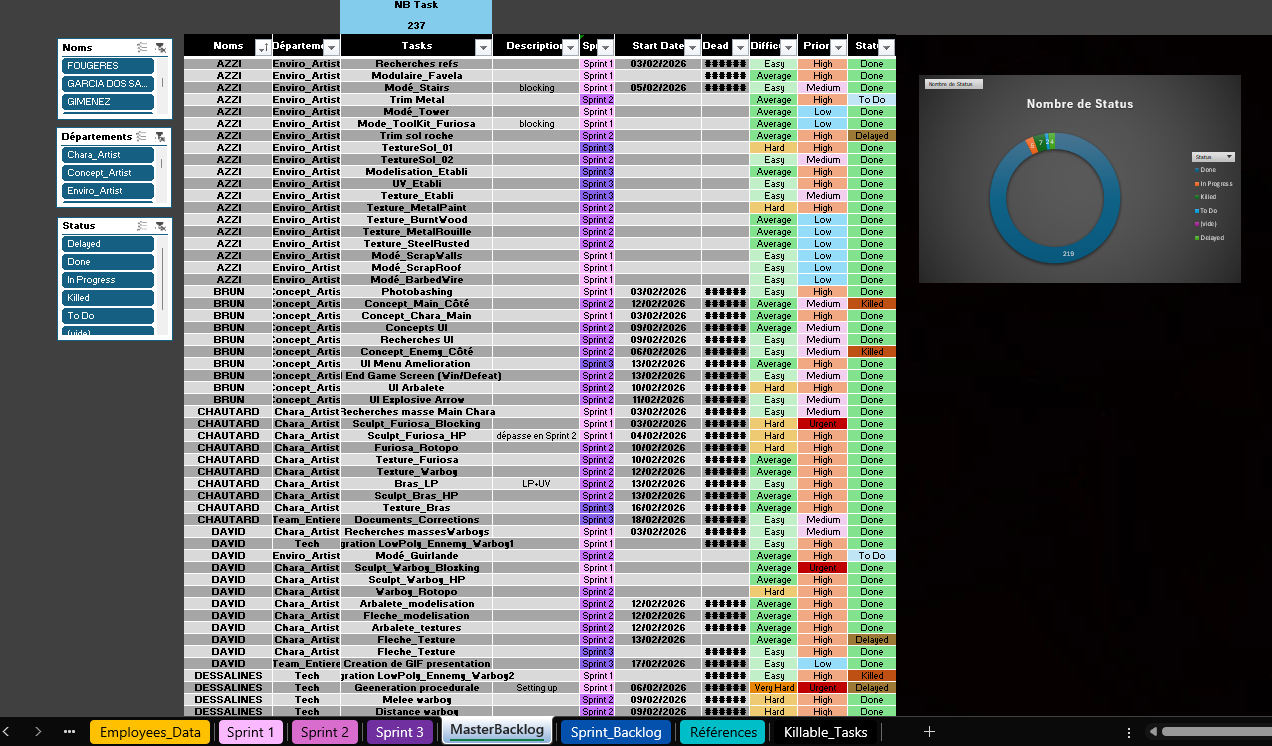
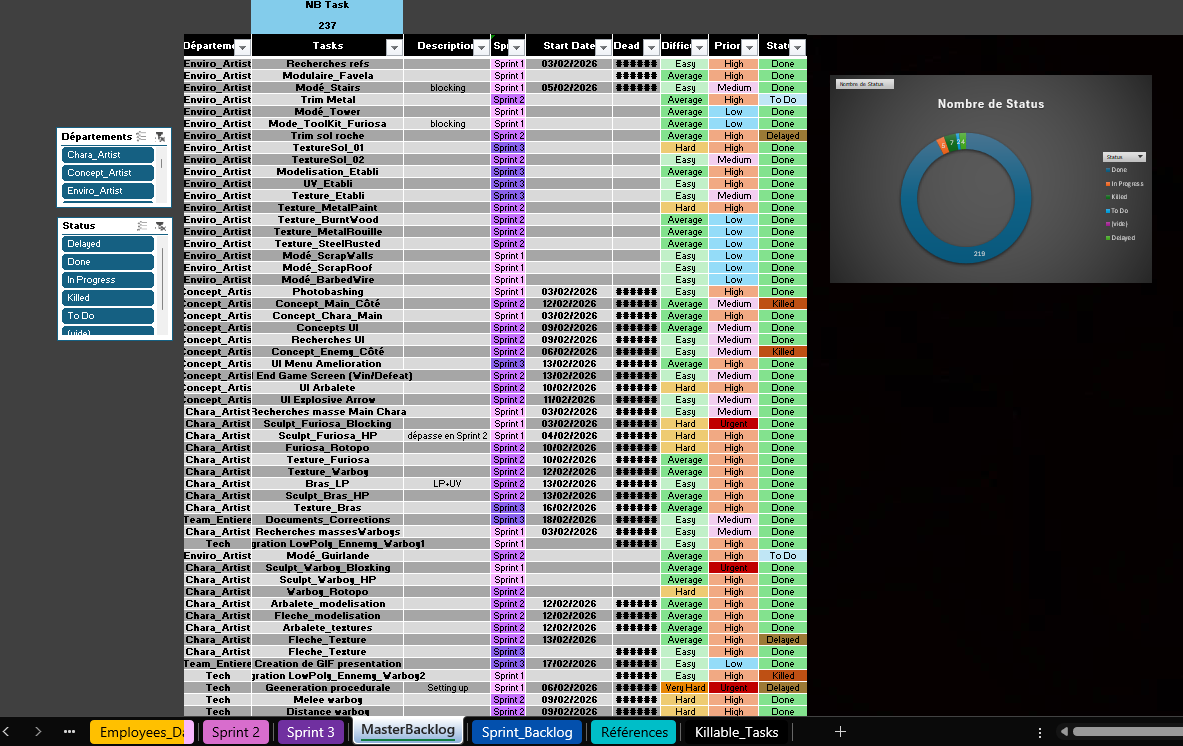
Workshop Rogue-lite : équipes avec liens LinkedIn, backlog sans noms
- Bande « Les équipes » : groupes 3 et 4, rôles tirés des fichiers de production, liens repris des équipes de fin d'année ; Dylan Dessalines affiché sans lien
- Un membre sans LinkedIn s'affiche sans lien ; le numéro de groupe peut être fixé (num)
- Capture du backlog de Mad Max Fury Rogue sans la colonne Noms ni le filtre Noms

Claude-Session: https://claude.ai/code/session_01QtLoCRjyjnrE9a4PUV17cc

diff --git a/js/contenu.js b/js/contenu.js
@@ -167,6 +167,47 @@ const EQUIPES_FDA = [
         M("Théo David","https://www.linkedin.com/in/th%C3%A9o-david-94080a3b6/","Technical Art") ] }
 ];
 
+/* Équipes du Workshop Rogue-lite (février 2026) : rôles tirés des fichiers de production, liens repris des équipes de fin d'année.
+   Un lien vide = pas de LinkedIn (le nom s'affiche sans lien). num = numéro du groupe à l'école. */
+const EQUIPES_ROGUE = [
+  { num:3, nom:"Vampire Hunter E-Cycle", genre:"rogue-lite gothique", genreEn:"gothic rogue-lite",
+    design:[
+        M("Thibault Merle","https://www.linkedin.com/in/thibault-merle-946187311/","Producer"),
+        M("Guillaume Soyez-Martin","https://www.linkedin.com/in/guillaume-soyez-martin-71a863253/","Référent Game Design · Narrative Design","Game Design Lead · Narrative Design"),
+        M("Tom Rossignol","https://www.linkedin.com/in/tom-rossignol-63148a3b8/","System Design"),
+        M("Kylian Chapon","https://www.linkedin.com/in/kylian-chapon-903924251/","Technical Design"),
+        M("Lylian Armant","https://www.linkedin.com/in/lylian-armant/","Level Design"),
+        M("Baptiste Feron","https://www.linkedin.com/in/baptiste-feron-51232b264/","Narrative Design") ],
+    art:[
+        M("Tess Bornard","https://www.linkedin.com/in/tess-bornard-1251bb3b3/","Référent Game Art · Environment Art","Game Art Lead · Environment Art"),
+        M("Allan Goniak","https://www.linkedin.com/in/allan-goniak-267044307/","Environment Art"),
+        M("Essoham Talle","https://www.linkedin.com/in/essoham-talle-290128360/","Environment Art"),
+        M("Manon Lebert","https://www.linkedin.com/in/manon-lebert-4a0602385/","Level Art"),
+        M("Bartholomé Girelli","https://www.linkedin.com/in/bartholome-girelli-071076333/","Technical Art"),
+        M("Naëlle Bigouraux","https://www.linkedin.com/in/na%C3%ABlle-bigouraux-4237363a3/","Character Art"),
+        M("Sarah Ounali","https://www.linkedin.com/in/sarah-ounali-6a1a47271/","Concept Art"),
+        M("Hugo Ballet","https://www.linkedin.com/in/hugo-ballet-038899370/","Concept Art"),
+        M("Augeul Meunier","","Concept Art") ] },
+  { num:4, nom:"Mad Max Fury Rogue", genre:"rogue-lite post-apocalyptique", genreEn:"post-apocalyptic rogue-lite",
+    design:[
+        M("Thibault Merle","https://www.linkedin.com/in/thibault-merle-946187311/","Producer"),
+        M("Malo Fougères","https://www.linkedin.com/in/malo-foug%C3%A8res-65476938b/","Référent Game Design · System Design","Game Design Lead · System Design"),
+        M("Dylan Dessalines","","Technical Design"),
+        M("Tao Rimet","https://www.linkedin.com/in/tao-rimet-256a21330/","Level Design"),
+        M("Matthias Gimenez","https://www.linkedin.com/in/matthias-gimenez-583615375/","Level Design"),
+        M("Flavie Hugonnard-Cotton","https://www.linkedin.com/in/flavie-hugonnard-cotton-b57bb6430/","Narrative Design") ],
+    art:[
+        M("Anaïs Lacoste","https://www.linkedin.com/in/ana%C3%AFs-lacoste-891315225/","Référent Game Art · Technical Art","Game Art Lead · Technical Art"),
+        M("Chloé Stagnitto","https://www.linkedin.com/in/chlo%C3%A9-stagnitto-0aa837345/","Environment Art"),
+        M("Vincent Sanchez","https://www.linkedin.com/in/vincent-sanchez-50844b375/","Environment Art"),
+        M("Lou Azzi","https://www.linkedin.com/in/lou-azzi-6a3076333/","Environment Art"),
+        M("Thomas Vauché","https://www.linkedin.com/in/thomas-vauch%C3%A9-8181a3333/","Level Art"),
+        M("Camille Chautard","https://www.linkedin.com/in/camille-chautard-81225a268/","Character Art"),
+        M("Théo David","https://www.linkedin.com/in/th%C3%A9o-david-94080a3b6/","Character Art"),
+        M("Pedro Garcia dos Santos","https://www.linkedin.com/in/pedro-garcia-dos-santos-776582268/","Concept Art"),
+        M("Valentin Brun","https://www.linkedin.com/in/valentin-brun-495426393/","Concept Art") ] }
+];
+
 const PROJECTS_FR = {
   pro: [
     P({ title:"Projets de fin d'année : quatre jeux en parallèle – Mai-juin 2026", large:true, nocover:true,   // nocover:true = pas de grande image en tête de la page de détails
@@ -303,6 +344,12 @@ const PROJECTS_FR = {
             LIGNE([
               T("Ce workshop m'a appris à **décider des coupes avant d'en avoir besoin**. Une liste sacrifiable préparée à l'avance évite d'improviser pendant le rush : quand le temps manque, on sait déjà ce qu'on laisse de côté."),
               T("J'avais écrit les mêmes objectifs de sprint pour les deux équipes. Avec le recul, chacune aurait gagné à avoir **ses propres objectifs**, tirés de son jeu et de son avancement : elles n'avaient pas le même volume de travail, 336 tâches d'un côté et 237 de l'autre.")
+            ])
+          ]),
+          BANDE("VIII","Les équipes",[
+            LIGNE([
+              T("Ces deux jeux sont avant tout le travail de leurs équipes."),
+              EQUIPES(EQUIPES_ROGUE)
             ])
           ])
         ] }),
@@ -709,6 +756,12 @@ const PROJECTS_EN = {
             LIGNE([
               T("This workshop taught me to **decide on cuts before I need them**. An expendable list prepared in advance avoids improvising during the crunch: when time runs short, you already know what to leave aside."),
               T("I had written the same sprint goals for both teams. Looking back, each would have benefited from **its own goals**, drawn from its game and its progress: they did not have the same workload, 336 tasks on one side and 237 on the other.")
+            ])
+          ]),
+          BANDE("VIII","The teams",[
+            LIGNE([
+              T("These two games are first and foremost the work of their teams."),
+              EQUIPES(EQUIPES_ROGUE)
             ])
           ])
         ] }),

diff --git a/js/app.js b/js/app.js
@@ -243,7 +243,9 @@ function bandNum(n){
 /* Carrousel des équipes : une diapositive par groupe, deux colonnes (Game Design / Game Art) */
 function teamsCarousel(groupes){
   const person = m => { const role = lang==="en" && m.roleEn ? m.roleEn : m.role;
-    return `<li class="${m.role==="Producer"?"me":""}"><a href="${esc(m.url)}" target="_blank" rel="noopener" aria-label="${esc(m.nom)} – LinkedIn (${t("newTab")})">${LINKEDIN_ICON}<span class="tm-n">${esc(m.nom)}</span></a><span class="tm-r">${esc(role)}</span></li>`; };
+    const who = m.url ? `<a href="${esc(m.url)}" target="_blank" rel="noopener" aria-label="${esc(m.nom)} – LinkedIn (${t("newTab")})">${LINKEDIN_ICON}<span class="tm-n">${esc(m.nom)}</span></a>`
+                      : `<span class="tm-a"><i aria-hidden="true"></i><span class="tm-n">${esc(m.nom)}</span></span>`;   /* pas de LinkedIn : nom sans lien */
+    return `<li class="${m.role==="Producer"?"me":""}">${who}<span class="tm-r">${esc(role)}</span></li>`; };
   /* Tri alphabétique par nom de famille (tout ce qui suit le prénom) ; le producer reste en tête */
   const surname = m => m.nom.split(" ").slice(1).join(" ") || m.nom;
   const sorted = list => [...list].sort((x,y)=> (y.role==="Producer")-(x.role==="Producer") || surname(x).localeCompare(surname(y),"fr",{sensitivity:"base"}) || x.nom.localeCompare(y.nom,"fr"));
@@ -251,7 +253,7 @@ function teamsCarousel(groupes){
   const prod = list => list.filter(m=>m.role==="Producer"), team = list => list.filter(m=>m.role!=="Producer");
   const col = (titre, list) => `<div class="tm-col"><h4>${titre}<small>${list.length}</small></h4><ul>${sorted(list).map(person).join("")}</ul></div>`;
   return `<details class="fold"><summary class="btn ghost"><span class="f-show">${q("Voir les membres des équipes","See the team members")}</span><span class="f-hide">${q("Masquer les membres des équipes","Hide the team members")}</span></summary><figure class="car teams" aria-roledescription="carrousel"><div class="car-track">${groupes.map((g,i)=>`<section class="car-s team" aria-label="${esc(g.nom)}">
-      <header><span class="tm-k">${t("group")} ${i+1}</span><h3>${esc(g.nom)}</h3><p>${esc(lang==="en"?g.genreEn:g.genre)} · ${team(g.design).length+g.art.length} ${t("members")}</p></header>
+      <header><span class="tm-k">${t("group")} ${g.num||i+1}</span><h3>${esc(g.nom)}</h3><p>${esc(lang==="en"?g.genreEn:g.genre)} · ${team(g.design).length+g.art.length} ${t("members")}</p></header>
       ${prod(g.design).length?`<div class="tm-col tm-prod"><ul>${prod(g.design).map(person).join("")}</ul></div>`:""}
       <div class="tm-cols">${col("Game Design",team(g.design))}${col("Game Art",team(g.art))}</div></section>`).join("")}</div>
     <div class="car-nav"><button type="button" data-car="-1" aria-label="${q("Groupe précédent","Previous group")}">‹</button><span class="car-cnt">1 / ${groupes.length}</span><button type="button" data-car="1" aria-label="${q("Groupe suivant","Next group")}">›</button></div></figure></details>`;

diff --git a/index.html b/index.html
@@ -24,7 +24,7 @@
 <meta property="og:locale" content="fr_FR">
 <meta property="og:locale:alternate" content="en_GB">
 <meta name="twitter:card" content="summary_large_image">
-<link rel="stylesheet" href="css/style.css?v=20261030-0940">
+<link rel="stylesheet" href="css/style.css?v=20261030-1000">
 </head>
 
 <body>
@@ -40,7 +40,7 @@
   <h2 id="h-legal" class="sr">Informations légales</h2><div class="legal-row" id="legal"></div>
 </div></footer>
 
-<script src="js/contenu.js?v=20261030-0940"></script>
-<script src="js/app.js?v=20261030-0940"></script>
+<script src="js/contenu.js?v=20261030-1000"></script>
+<script src="js/app.js?v=20261030-1000"></script>
 </body>
 </html>

diff --git a/css/style.css b/css/style.css
@@ -2854,3 +2854,6 @@ html body .fold::details-content { box-sizing: inherit; }
 .skip:focus { top: .75rem; }
 /* Titre qui reçoit le focus après un changement de page : pas de cadre */
 #view h1[tabindex="-1"]:focus { outline: none; }
+/* Membre d'équipe sans LinkedIn : même alignement qu'un nom avec lien */
+.tm-col li .tm-a { display: inline-flex; align-items: center; gap: .5rem; font-weight: 600; }
+.tm-col li .tm-a i { width: 17px; height: 17px; flex: none; }
